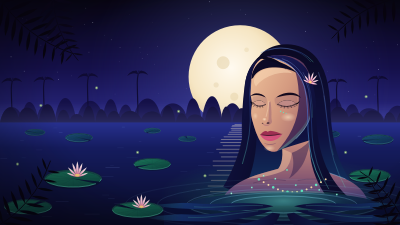
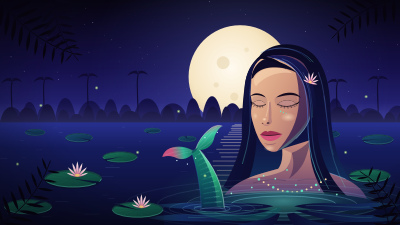
Iara: a cauda de sereia sai da água ao lado dela
O Pablo aprovou a qualidade do retrato e pediu para ver a cauda. Ela sobe
da água entre a Iara e o caminho da lua, no mesmo padrão: tronco em dois
planos com fio de luz, escamas em fileiras que acompanham a curva e a
nadadeira em dois lóbulos, do verde da mata ao urucum nas pontas. O corpo
segue por baixo da superfície até onde a cauda sobe.

Na versão animada a cauda balança (classe f, com a origem na água), há anéis
onde ela sai e gotas que caem da nadadeira. Uma vitória-régia mudou de
lugar para dar espaço.

Claude-Session: https://claude.ai/code/session_01ScgKNBRa6PNzmmLcYJgieX

Changed region(s): [[0.24, 0.56, 0.69, 0.9956]]

diff --git a/tema/papel-vivo/io.github.pabloherzberg.mataviva/contents/ui/Camadas.js b/tema/papel-vivo/io.github.pabloherzberg.mataviva/contents/ui/Camadas.js
@@ -1,5 +1,5 @@
 // Gerado por tema/gerar-papel-vivo.py a partir de arte/brasa-fundo.svg, arte/iara-fundo.svg e arte/papel-vivo/.
 // Não edite à mão.
 .pragma library
-var cenas = {"brasa":{"camadas":[{"tipo":"parada","img":"brasa/c01.png","x":-43.76,"y":-59.41,"w":1410.82,"h":828.14},{"tipo":"vaga","nome":"ceu"},{"tipo":"parada","img":"brasa/c02.png","x":-30.95,"y":-11.03,"w":1435.01,"h":789.72},{"tipo":"vaga","nome":"longe"},{"tipo":"parada","img":"brasa/c03.png","x":-32.37,"y":-53.0,"w":1488.37,"h":859.44},{"img":"brasa/c04-halo.png","x":777.27,"y":81.46,"w":495.18,"h":356.44,"tipo":"halo","opacidade":0.55,"duracao":4,"atraso":0},{"tipo":"vaga","nome":"perto"},{"img":"brasa/c05-f.png","x":876.87,"y":105.65,"w":304.5,"h":184.98,"tipo":"f","ox":0.17,"oy":0.92,"quadros":"fa","duracao":4.0,"atraso":-3.88},{"img":"brasa/c06-f.png","x":997.82,"y":80.04,"w":445.37,"h":212.73,"tipo":"f","ox":0.14,"oy":0.87,"quadros":"fb","duracao":2.6667,"atraso":-2.14},{"img":"brasa/c07-f.png","x":1116.63,"y":264.31,"w":320.87,"h":168.62,"tipo":"f","ox":0.04,"oy":0.57,"quadros":"fc","duracao":2.0,"atraso":-0.61},{"img":"brasa/c08-f.png","x":1068.97,"y":361.06,"w":379.92,"h":332.25,"tipo":"f","ox":0.09,"oy":0.37,"quadros":"fb","duracao":4.0,"atraso":-3.54},{"img":"brasa/c09-f.png","x":1020.59,"y":124.86,"w":64.74,"h":98.18,"tipo":"f","ox":0.09,"oy":0.95,"quadros":"fl","duracao":1.6,"atraso":-0.34},{"img":"brasa/c10-f.png","x":1174.97,"y":107.07,"w":79.68,"h":106.72,"tipo":"f","ox":0.05,"oy":0.94,"quadros":"fl","duracao":2.0,"atraso":-0.79},{"tipo":"parada","img":"brasa/c11.png","x":624.3,"y":492.68,"w":726.4,"h":364.98},{"img":"brasa/c12-f.png","x":1092.44,"y":414.42,"w":301.66,"h":176.44,"tipo":"f","ox":0.04,"oy":0.29,"quadros":"fa","duracao":4.0,"atraso":-3.42},{"img":"brasa/c13-f.png","x":1076.08,"y":438.61,"w":266.09,"h":224.82,"tipo":"f","ox":0.07,"oy":0.27,"quadros":"fc","duracao":2.6667,"atraso":-1.71},{"tipo":"parada","img":"brasa/c14.png","x":850.55,"y":233.0,"w":255.41,"h":369.25},{"img":"brasa/c15-breath.png","x":850.55,"y":311.26,"w":164.35,"h":278.89,"tipo":"breath","duracao":2.6667,"atraso":0},{"tipo":"parada","img":"brasa/c16.png","x":861.22,"y":408.02,"w":144.43,"h":29.88},{"img":"brasa/c17-lid.png","x":943.04,"y":417.27,"w":59.76,"h":19.92,"tipo":"lid","duracao":8,"atraso":0},{"img":"brasa/c18-lid.png","x":862.64,"y":413.0,"w":41.98,"h":19.92,"tipo":"lid","duracao":8,"atraso":0},{"tipo":"parada","img":"brasa/c19.png","x":851.97,"y":226.6,"w":303.79,"h":303.79},{"img":"brasa/c20-f.png","x":871.18,"y":114.9,"w":283.87,"h":194.94,"tipo":"f","ox":0.11,"oy":0.95,"quadros":"fc","duracao":4.0,"atraso":-0.4},{"img":"brasa/c21-f.png","x":933.08,"y":114.19,"w":315.89,"h":177.15,"tipo":"f","ox":0.07,"oy":0.98,"quadros":"fa","duracao":2.6667,"atraso":-2.64},{"img":"brasa/c22-f.png","x":997.82,"y":129.84,"w":372.8,"h":173.6,"tipo":"f","ox":0.06,"oy":0.97,"quadros":"fb","duracao":2.0,"atraso":-0.43},{"img":"brasa/c23-f.png","x":1059.01,"y":232.29,"w":344.35,"h":136.6,"tipo":"f","ox":0.03,"oy":0.86,"quadros":"fc","duracao":1.6,"atraso":-0.41},{"img":"brasa/c24-f.png","x":944.46,"y":148.34,"w":61.9,"h":89.64,"tipo":"f","ox":0.11,"oy":0.99,"quadros":"fl","duracao":1.3333,"atraso":-1.03},{"img":"brasa/c25-f.png","x":1096.0,"y":112.05,"w":59.76,"h":99.6,"tipo":"f","ox":0.08,"oy":0.95,"quadros":"fl","duracao":1.6,"atraso":-0.53},{"img":"brasa/c26-f.png","x":1234.74,"y":166.12,"w":68.3,"h":77.55,"tipo":"f","ox":0.04,"oy":0.94,"quadros":"fl","duracao":2.0,"atraso":-0.59},{"img":"brasa/c27-f.png","x":864.78,"y":155.45,"w":229.8,"h":175.73,"tipo":"f","ox":0.1,"oy":0.93,"quadros":"fa","duracao":1.6,"atraso":-0.12},{"img":"brasa/c28-f.png","x":914.58,"y":167.55,"w":288.14,"h":134.47,"tipo":"f","ox":0.07,"oy":0.98,"quadros":"fb","duracao":4.0,"atraso":-0.36},{"img":"brasa/c29-f.png","x":972.92,"y":191.74,"w":315.18,"h":109.56,"tipo":"f","ox":0.07,"oy":0.98,"quadros":"fc","duracao":2.6667,"atraso":-1.55},{"img":"brasa/c30-f.png","x":1028.41,"y":234.43,"w":284.58,"h":140.87,"tipo":"f","ox":0.08,"oy":0.75,"quadros":"fa","duracao":2.0,"atraso":-0.49},{"tipo":"parada","img":"brasa/c31.png","x":-45.18,"y":-33.08,"w":1463.47,"h":865.13},{"img":"brasa/c32-sp.png","x":901.77,"y":116.32,"w":6.4,"h":7.11,"tipo":"sp","dx":50.0,"dy":-110.0,"duracao":4.0,"atraso":-0.0},{"img":"brasa/c33-sp.png","x":1036.95,"y":67.23,"w":6.4,"h":5.69,"tipo":"sp","dx":70.0,"dy":-70.0,"duracao":2.6667,"atraso":-0.9},{"img":"brasa/c34-sp.png","x":1176.4,"y":126.28,"w":7.11,"h":7.11,"tipo":"sp","dx":90.0,"dy":-110.0,"duracao":4.0,"atraso":-2.2},{"img":"brasa/c35-sp.png","x":1286.67,"y":246.52,"w":6.4,"h":6.4,"tipo":"sp","dx":70.0,"dy":-150.0,"duracao":4.0,"atraso":-3.1},{"img":"brasa/c36-sp.png","x":1246.83,"y":466.36,"w":6.4,"h":7.11,"tipo":"sp","dx":80.0,"dy":-150.0,"duracao":4.0,"atraso":-0.4},{"img":"brasa/c37-sp.png","x":1117.34,"y":37.35,"w":5.69,"h":5.69,"tipo":"sp","dx":60.0,"dy":-40.0,"duracao":2.6667,"atraso":-1.6},{"img":"brasa/c38-sp.png","x":1327.22,"y":376.72,"w":5.69,"h":6.4,"tipo":"sp","dx":40.0,"dy":-130.0,"duracao":4.0,"atraso":-1.4},{"img":"brasa/c39-ff.png","x":130.55,"y":459.96,"w":14.94,"h":15.65,"tipo":"ff","duracao":8.0,"atraso":-1.1},{"img":"brasa/c40-ff.png","x":310.55,"y":582.33,"w":14.94,"h":14.94,"tipo":"ff","duracao":4.0,"atraso":-3.0},{"img":"brasa/c41-ff.png","x":497.66,"y":363.91,"w":14.94,"h":15.65,"tipo":"ff","duracao":8.0,"atraso":-5.2},{"img":"brasa/c42-ff.png","x":604.38,"y":511.89,"w":14.94,"h":15.65,"tipo":"ff","duracao":4.0,"atraso":-2.2},{"img":"brasa/c43-ff.png","x":734.58,"y":284.23,"w":14.94,"h":15.65,"tipo":"ff","duracao":8.0,"atraso":-6.4},{"img":"brasa/c44-ff.png","x":224.46,"y":309.84,"w":14.94,"h":15.65,"tipo":"ff","duracao":4.0,"atraso":-0.6}],"quadros":{"fa":[[0.0,0.0,1.0,1.0,null],[0.22,-1.6,1.04,1.02,null],[0.48,0.9,0.98,1.0,null],[0.74,-0.8,1.02,0.99,null],[1.0,0.0,1.0,1.0,null]],"fb":[[0.0,0.0,1.0,1.0,null],[0.3,1.4,0.97,1.01,null],[0.58,-1.7,1.05,1.0,null],[0.82,0.5,1.01,1.02,null],[1.0,0.0,1.0,1.0,null]],"fc":[[0.0,0.0,1.0,1.0,1.0],[0.18,-2.2,1.07,1.03,0.9],[0.4,1.2,0.95,1.0,1.0],[0.63,-1.4,1.05,0.98,0.85],[0.85,0.8,0.99,1.02,1.0],[1.0,0.0,1.0,1.0,1.0]],"fl":[[0.0,0.0,1.0,1.0,1.0],[0.2,-5.0,1.05,1.14,0.86],[0.45,3.0,0.97,0.88,1.0],[0.7,-3.0,1.03,1.09,0.8],[1.0,0.0,1.0,1.0,1.0]],"ff":[[0.0,0.0,1.0,1.0,0.08],[0.3,0.0,1.0,1.0,0.75],[0.55,0.0,1.0,1.0,0.25],[0.78,0.0,1.0,1.0,0.7],[1.0,0.0,1.0,1.0,0.08]],"breath":[[0.0,0.0,1.0,1.0,1.0],[0.17,0.0,1.0,1.0,0.8],[0.36,0.0,1.0,1.0,0.96],[0.55,0.0,1.0,1.0,0.74],[0.78,0.0,1.0,1.0,0.93],[1.0,0.0,1.0,1.0,1.0]],"halo":[[0.0,0.0,1.0,1.0,0.55],[0.23,0.0,1.0,1.0,0.3],[0.47,0.0,1.0,1.0,0.5],[0.71,0.0,1.0,1.0,0.25],[1.0,0.0,1.0,1.0,0.55]],"glow":[[0.0,0.0,1.0,1.0,0.28],[0.5,0.0,1.0,1.0,0.95],[1.0,0.0,1.0,1.0,0.28]],"blink":[[0.0,0.0,1.0,1.0,0.0],[0.605,0.0,1.0,1.0,0.0],[0.606,0.0,1.0,1.0,1.0],[0.619,0.0,1.0,1.0,1.0],[0.627,0.0,1.0,1.0,1.0],[0.65,0.0,1.0,1.0,1.0],[0.6509999999999999,0.0,1.0,1.0,0.0],[1.0,0.0,1.0,1.0,0.0]],"spark":[[0.0,0.0,1.0,1.0,0.0],[0.1,0.0,1.0,1.0,1.0],[0.7,0.0,1.0,1.0,0.8],[1.0,0.0,1.0,1.0,0.0]],"s0":[[0.0,0.0,1.0,1.0,0.0],[0.02,0.0,1.0,1.0,0.0],[0.06,0.0,1.0,1.0,1.0],[0.22,0.0,1.0,1.0,0.72],[0.88,0.0,1.0,1.0,0.72],[0.97,0.0,1.0,1.0,0.0],[1.0,0.0,1.0,1.0,0.0]],"s1":[[0.0,0.0,1.0,1.0,0.0],[0.17,0.0,1.0,1.0,0.0],[0.21,0.0,1.0,1.0,1.0],[0.37,0.0,1.0,1.0,0.72],[0.88,0.0,1.0,1.0,0.72],[0.97,0.0,1.0,1.0,0.0],[1.0,0.0,1.0,1.0,0.0]],"s2":[[0.0,0.0,1.0,1.0,0.0],[0.32,0.0,1.0,1.0,0.0],[0.36,0.0,1.0,1.0,1.0],[0.52,0.0,1.0,1.0,0.72],[0.88,0.0,1.0,1.0,0.72],[0.97,0.0,1.0,1.0,0.0],[1.0,0.0,1.0,1.0,0.0]],"s3":[[0.0,0.0,1.0,1.0,0.0],[0.47,0.0,1.0,1.0,0.0],[0.51,0.0,1.0,1.0,1.0],[0.67,0.0,1.0,1.0,0.72],[0.88,0.0,1.0,1.0,0.72],[0.97,0.0,1.0,1.0,0.0],[1.0,0.0,1.0,1.0,0.0]],"s4":[[0.0,0.0,1.0,1.0,0.0],[0.62,0.0,1.0,1.0,0.0],[0.66,0.0,1.0,1.0,1.0],[0.82,0.0,1.0,1.0,0.8],[0.88,0.0,1.0,1.0,0.8],[0.97,0.0,1.0,1.0,0.0],[1.0,0.0,1.0,1.0,0.0]]}},"iara":{"camadas":[{"tipo":"parada","img":"iara/c01.png","x":-1.07,"y":-1.07,"w":1368.13,"h":769.8},{"tipo":"vaga","nome":"ceu"},{"tipo":"parada","img":"iara/c02.png","x":-1.07,"y":161.14,"w":1427.19,"h":326.56},{"tipo":"vaga","nome":"longe"},{"tipo":"parada","img":"iara/c03.png","x":-1.07,"y":149.76,"w":1398.02,"h":618.97},{"img":"iara/c04-lid.png","x":945.88,"y":340.43,"w":69.01,"h":29.88,"tipo":"lid","duracao":8,"atraso":0},{"img":"iara/c05-lid.png","x":858.37,"y":341.86,"w":49.8,"h":27.04,"tipo":"lid","duracao":8,"atraso":0},{"tipo":"parada","img":"iara/c06.png","x":558.85,"y":161.14,"w":822.45,"h":641.74},{"img":"iara/c07-halo.png","x":785.81,"y":666.99,"w":364.27,"h":61.9,"tipo":"halo","opacidade":0.7,"duracao":4,"atraso":0},{"img":"iara/c08-halo.png","x":716.08,"y":655.61,"w":503.71,"h":83.95,"tipo":"halo","opacidade":0.5,"duracao":4,"atraso":0},{"img":"iara/c09-halo.png","x":636.4,"y":642.8,"w":663.79,"h":109.56,"tipo":"halo","opacidade":0.34,"duracao":4,"atraso":0},{"img":"iara/c10-halo.png","x":536.08,"y":627.15,"w":863.71,"h":141.58,"tipo":"halo","opacidade":0.2,"duracao":4,"atraso":0},{"img":"iara/c11-halo.png","x":425.81,"y":610.07,"w":1030.19,"h":175.73,"tipo":"halo","opacidade":0.12,"duracao":4,"atraso":0},{"img":"iara/c12-f.png","x":510.47,"y":691.18,"w":424.74,"h":29.17,"tipo":"f","ox":0.92,"oy":0.5,"quadros":"fa","duracao":5.0,"atraso":-1.2},{"img":"iara/c13-f.png","x":489.84,"y":716.08,"w":441.1,"h":40.55,"tipo":"f","ox":0.94,"oy":0.3,"quadros":"fb","duracao":6.4,"atraso":-3.1},{"img":"iara/c14-f.png","x":1002.8,"y":691.18,"w":377.07,"h":29.17,"tipo":"f","ox":0.06,"oy":0.5,"quadros":"fb","duracao":5.6,"atraso":-2.0},{"img":"iara/c15-f.png","x":1007.07,"y":716.08,"w":382.76,"h":42.69,"tipo":"f","ox":0.05,"oy":0.3,"quadros":"fa","duracao":7.0,"atraso":-4.4},{"img":"iara/c16-f.png","x":659.88,"y":724.62,"w":297.39,"h":71.86,"tipo":"f","ox":0.96,"oy":0.06,"quadros":"fc","duracao":6.0,"atraso":-0.7},{"img":"iara/c17-f.png","x":978.61,"y":724.62,"w":301.66,"h":71.86,"tipo":"f","ox":0.04,"oy":0.06,"quadros":"fc","duracao":6.8,"atraso":-2.6},{"tipo":"parada","img":"iara/c18.png","x":12.45,"y":538.22,"w":1323.31,"h":209.88},{"img":"iara/c19-sp.png","x":854.11,"y":634.26,"w":11.38,"h":11.38,"tipo":"sp","dx":-20.0,"dy":-120.0,"duracao":5.0,"atraso":0.0},{"img":"iara/c20-sp.png","x":934.5,"y":604.38,"w":11.38,"h":11.38,"tipo":"sp","dx":10.0,"dy":-150.0,"duracao":6.0,"atraso":-1.4},{"img":"iara/c21-sp.png","x":1004.22,"y":625.73,"w":11.38,"h":11.38,"tipo":"sp","dx":24.0,"dy":-130.0,"duracao":5.0,"atraso":-2.6},{"img":"iara/c22-sp.png","x":1084.62,"y":642.09,"w":11.38,"h":11.38,"tipo":"sp","dx":36.0,"dy":-110.0,"duracao":7.0,"atraso":-3.4},{"img":"iara/c23-sp.png","x":784.38,"y":654.19,"w":11.38,"h":11.38,"tipo":"sp","dx":-34.0,"dy":-100.0,"duracao":6.0,"atraso":-4.1},{"img":"iara/c24-sp.png","x":974.34,"y":573.79,"w":11.38,"h":11.38,"tipo":"sp","dx":4.0,"dy":-160.0,"duracao":8.0,"atraso":-5.2},{"img":"iara/c25-sp.png","x":1144.38,"y":657.74,"w":11.38,"h":11.38,"tipo":"sp","dx":46.0,"dy":-90.0,"duracao":6.0,"atraso":-0.8},{"img":"iara/c26-sp.png","x":894.66,"y":593.71,"w":11.38,"h":11.38,"tipo":"sp","dx":-10.0,"dy":-140.0,"duracao":7.0,"atraso":-2.0},{"img":"iara/c27-ff.png","x":131.97,"y":351.82,"w":15.65,"h":15.65,"tipo":"ff","duracao":8.0,"atraso":-1.1},{"img":"iara/c28-ff.png","x":322.65,"y":292.05,"w":14.94,"h":15.65,"tipo":"ff","duracao":4.0,"atraso":-3.0},{"img":"iara/c29-ff.png","x":462.09,"y":511.89,"w":15.65,"h":15.65,"tipo":"ff","duracao":8.0,"atraso":-5.2},{"img":"iara/c30-ff.png","x":602.25,"y":372.45,"w":15.65,"h":14.94,"tipo":"ff","duracao":4.0,"atraso":-2.2},{"img":"iara/c31-ff.png","x":52.29,"y":551.74,"w":15.65,"h":15.65,"tipo":"ff","duracao":8.0,"atraso":-6.4},{"img":"iara/c32-ff.png","x":1242.56,"y":321.93,"w":14.94,"h":15.65,"tipo":"ff","duracao":4.0,"atraso":-0.6},{"img":"iara/c33-ff.png","x":1172.13,"y":511.89,"w":15.65,"h":15.65,"tipo":"ff","duracao":8.0,"atraso":-4.0},{"img":"iara/c34-ff.png","x":692.6,"y":592.29,"w":14.94,"h":14.94,"tipo":"ff","duracao":8.0,"atraso":-2.9},{"tipo":"parada","img":"iara/c35.png","x":-22.41,"y":-43.76,"w":1428.61,"h":845.92}],"quadros":{"fa":[[0.0,0.0,1.0,1.0,null],[0.22,-1.6,1.04,1.02,null],[0.48,0.9,0.98,1.0,null],[0.74,-0.8,1.02,0.99,null],[1.0,0.0,1.0,1.0,null]],"fb":[[0.0,0.0,1.0,1.0,null],[0.3,1.4,0.97,1.01,null],[0.58,-1.7,1.05,1.0,null],[0.82,0.5,1.01,1.02,null],[1.0,0.0,1.0,1.0,null]],"fc":[[0.0,0.0,1.0,1.0,1.0],[0.18,-2.2,1.07,1.03,0.9],[0.4,1.2,0.95,1.0,1.0],[0.63,-1.4,1.05,0.98,0.85],[0.85,0.8,0.99,1.02,1.0],[1.0,0.0,1.0,1.0,1.0]],"ff":[[0.0,0.0,1.0,1.0,0.08],[0.3,0.0,1.0,1.0,0.75],[0.55,0.0,1.0,1.0,0.25],[0.78,0.0,1.0,1.0,0.7],[1.0,0.0,1.0,1.0,0.08]],"breath":[[0.0,0.0,1.0,1.0,1.0],[0.17,0.0,1.0,1.0,0.8],[0.36,0.0,1.0,1.0,0.96],[0.55,0.0,1.0,1.0,0.74],[0.78,0.0,1.0,1.0,0.93],[1.0,0.0,1.0,1.0,1.0]],"halo":[[0.0,0.0,1.0,1.0,0.55],[0.23,0.0,1.0,1.0,0.3],[0.47,0.0,1.0,1.0,0.5],[0.71,0.0,1.0,1.0,0.25],[1.0,0.0,1.0,1.0,0.55]],"blink":[[0.0,0.0,1.0,1.0,0.0],[0.605,0.0,1.0,1.0,0.0],[0.606,0.0,1.0,1.0,1.0],[0.619,0.0,1.0,1.0,1.0],[0.627,0.0,1.0,1.0,1.0],[0.65,0.0,1.0,1.0,1.0],[0.6509999999999999,0.0,1.0,1.0,0.0],[1.0,0.0,1.0,1.0,0.0]],"spark":[[0.0,0.0,1.0,1.0,0.0],[0.1,0.0,1.0,1.0,1.0],[0.7,0.0,1.0,1.0,0.8],[1.0,0.0,1.0,1.0,0.0]]}}}
+var cenas = {"brasa":{"camadas":[{"tipo":"parada","img":"brasa/c01.png","x":-43.76,"y":-59.41,"w":1410.82,"h":828.14},{"tipo":"vaga","nome":"ceu"},{"tipo":"parada","img":"brasa/c02.png","x":-30.95,"y":-11.03,"w":1435.01,"h":789.72},{"tipo":"vaga","nome":"longe"},{"tipo":"parada","img":"brasa/c03.png","x":-32.37,"y":-53.0,"w":1488.37,"h":859.44},{"img":"brasa/c04-halo.png","x":777.27,"y":81.46,"w":495.18,"h":356.44,"tipo":"halo","opacidade":0.55,"duracao":4,"atraso":0},{"tipo":"vaga","nome":"perto"},{"img":"brasa/c05-f.png","x":876.87,"y":105.65,"w":304.5,"h":184.98,"tipo":"f","ox":0.17,"oy":0.92,"quadros":"fa","duracao":4.0,"atraso":-3.88},{"img":"brasa/c06-f.png","x":997.82,"y":80.04,"w":445.37,"h":212.73,"tipo":"f","ox":0.14,"oy":0.87,"quadros":"fb","duracao":2.6667,"atraso":-2.14},{"img":"brasa/c07-f.png","x":1116.63,"y":264.31,"w":320.87,"h":168.62,"tipo":"f","ox":0.04,"oy":0.57,"quadros":"fc","duracao":2.0,"atraso":-0.61},{"img":"brasa/c08-f.png","x":1068.97,"y":361.06,"w":379.92,"h":332.25,"tipo":"f","ox":0.09,"oy":0.37,"quadros":"fb","duracao":4.0,"atraso":-3.54},{"img":"brasa/c09-f.png","x":1020.59,"y":124.86,"w":64.74,"h":98.18,"tipo":"f","ox":0.09,"oy":0.95,"quadros":"fl","duracao":1.6,"atraso":-0.34},{"img":"brasa/c10-f.png","x":1174.97,"y":107.07,"w":79.68,"h":106.72,"tipo":"f","ox":0.05,"oy":0.94,"quadros":"fl","duracao":2.0,"atraso":-0.79},{"tipo":"parada","img":"brasa/c11.png","x":624.3,"y":492.68,"w":726.4,"h":364.98},{"img":"brasa/c12-f.png","x":1092.44,"y":414.42,"w":301.66,"h":176.44,"tipo":"f","ox":0.04,"oy":0.29,"quadros":"fa","duracao":4.0,"atraso":-3.42},{"img":"brasa/c13-f.png","x":1076.08,"y":438.61,"w":266.09,"h":224.82,"tipo":"f","ox":0.07,"oy":0.27,"quadros":"fc","duracao":2.6667,"atraso":-1.71},{"tipo":"parada","img":"brasa/c14.png","x":850.55,"y":233.0,"w":255.41,"h":369.25},{"img":"brasa/c15-breath.png","x":850.55,"y":311.26,"w":164.35,"h":278.89,"tipo":"breath","duracao":2.6667,"atraso":0},{"tipo":"parada","img":"brasa/c16.png","x":861.22,"y":408.02,"w":144.43,"h":29.88},{"img":"brasa/c17-lid.png","x":943.04,"y":417.27,"w":59.76,"h":19.92,"tipo":"lid","duracao":8,"atraso":0},{"img":"brasa/c18-lid.png","x":862.64,"y":413.0,"w":41.98,"h":19.92,"tipo":"lid","duracao":8,"atraso":0},{"tipo":"parada","img":"brasa/c19.png","x":851.97,"y":226.6,"w":303.79,"h":303.79},{"img":"brasa/c20-f.png","x":871.18,"y":114.9,"w":283.87,"h":194.94,"tipo":"f","ox":0.11,"oy":0.95,"quadros":"fc","duracao":4.0,"atraso":-0.4},{"img":"brasa/c21-f.png","x":933.08,"y":114.19,"w":315.89,"h":177.15,"tipo":"f","ox":0.07,"oy":0.98,"quadros":"fa","duracao":2.6667,"atraso":-2.64},{"img":"brasa/c22-f.png","x":997.82,"y":129.84,"w":372.8,"h":173.6,"tipo":"f","ox":0.06,"oy":0.97,"quadros":"fb","duracao":2.0,"atraso":-0.43},{"img":"brasa/c23-f.png","x":1059.01,"y":232.29,"w":344.35,"h":136.6,"tipo":"f","ox":0.03,"oy":0.86,"quadros":"fc","duracao":1.6,"atraso":-0.41},{"img":"brasa/c24-f.png","x":944.46,"y":148.34,"w":61.9,"h":89.64,"tipo":"f","ox":0.11,"oy":0.99,"quadros":"fl","duracao":1.3333,"atraso":-1.03},{"img":"brasa/c25-f.png","x":1096.0,"y":112.05,"w":59.76,"h":99.6,"tipo":"f","ox":0.08,"oy":0.95,"quadros":"fl","duracao":1.6,"atraso":-0.53},{"img":"brasa/c26-f.png","x":1234.74,"y":166.12,"w":68.3,"h":77.55,"tipo":"f","ox":0.04,"oy":0.94,"quadros":"fl","duracao":2.0,"atraso":-0.59},{"img":"brasa/c27-f.png","x":864.78,"y":155.45,"w":229.8,"h":175.73,"tipo":"f","ox":0.1,"oy":0.93,"quadros":"fa","duracao":1.6,"atraso":-0.12},{"img":"brasa/c28-f.png","x":914.58,"y":167.55,"w":288.14,"h":134.47,"tipo":"f","ox":0.07,"oy":0.98,"quadros":"fb","duracao":4.0,"atraso":-0.36},{"img":"brasa/c29-f.png","x":972.92,"y":191.74,"w":315.18,"h":109.56,"tipo":"f","ox":0.07,"oy":0.98,"quadros":"fc","duracao":2.6667,"atraso":-1.55},{"img":"brasa/c30-f.png","x":1028.41,"y":234.43,"w":284.58,"h":140.87,"tipo":"f","ox":0.08,"oy":0.75,"quadros":"fa","duracao":2.0,"atraso":-0.49},{"tipo":"parada","img":"brasa/c31.png","x":-45.18,"y":-33.08,"w":1463.47,"h":865.13},{"img":"brasa/c32-sp.png","x":901.77,"y":116.32,"w":6.4,"h":7.11,"tipo":"sp","dx":50.0,"dy":-110.0,"duracao":4.0,"atraso":-0.0},{"img":"brasa/c33-sp.png","x":1036.95,"y":67.23,"w":6.4,"h":5.69,"tipo":"sp","dx":70.0,"dy":-70.0,"duracao":2.6667,"atraso":-0.9},{"img":"brasa/c34-sp.png","x":1176.4,"y":126.28,"w":7.11,"h":7.11,"tipo":"sp","dx":90.0,"dy":-110.0,"duracao":4.0,"atraso":-2.2},{"img":"brasa/c35-sp.png","x":1286.67,"y":246.52,"w":6.4,"h":6.4,"tipo":"sp","dx":70.0,"dy":-150.0,"duracao":4.0,"atraso":-3.1},{"img":"brasa/c36-sp.png","x":1246.83,"y":466.36,"w":6.4,"h":7.11,"tipo":"sp","dx":80.0,"dy":-150.0,"duracao":4.0,"atraso":-0.4},{"img":"brasa/c37-sp.png","x":1117.34,"y":37.35,"w":5.69,"h":5.69,"tipo":"sp","dx":60.0,"dy":-40.0,"duracao":2.6667,"atraso":-1.6},{"img":"brasa/c38-sp.png","x":1327.22,"y":376.72,"w":5.69,"h":6.4,"tipo":"sp","dx":40.0,"dy":-130.0,"duracao":4.0,"atraso":-1.4},{"img":"brasa/c39-ff.png","x":130.55,"y":459.96,"w":14.94,"h":15.65,"tipo":"ff","duracao":8.0,"atraso":-1.1},{"img":"brasa/c40-ff.png","x":310.55,"y":582.33,"w":14.94,"h":14.94,"tipo":"ff","duracao":4.0,"atraso":-3.0},{"img":"brasa/c41-ff.png","x":497.66,"y":363.91,"w":14.94,"h":15.65,"tipo":"ff","duracao":8.0,"atraso":-5.2},{"img":"brasa/c42-ff.png","x":604.38,"y":511.89,"w":14.94,"h":15.65,"tipo":"ff","duracao":4.0,"atraso":-2.2},{"img":"brasa/c43-ff.png","x":734.58,"y":284.23,"w":14.94,"h":15.65,"tipo":"ff","duracao":8.0,"atraso":-6.4},{"img":"brasa/c44-ff.png","x":224.46,"y":309.84,"w":14.94,"h":15.65,"tipo":"ff","duracao":4.0,"atraso":-0.6}],"quadros":{"fa":[[0.0,0.0,1.0,1.0,null],[0.22,-1.6,1.04,1.02,null],[0.48,0.9,0.98,1.0,null],[0.74,-0.8,1.02,0.99,null],[1.0,0.0,1.0,1.0,null]],"fb":[[0.0,0.0,1.0,1.0,null],[0.3,1.4,0.97,1.01,null],[0.58,-1.7,1.05,1.0,null],[0.82,0.5,1.01,1.02,null],[1.0,0.0,1.0,1.0,null]],"fc":[[0.0,0.0,1.0,1.0,1.0],[0.18,-2.2,1.07,1.03,0.9],[0.4,1.2,0.95,1.0,1.0],[0.63,-1.4,1.05,0.98,0.85],[0.85,0.8,0.99,1.02,1.0],[1.0,0.0,1.0,1.0,1.0]],"fl":[[0.0,0.0,1.0,1.0,1.0],[0.2,-5.0,1.05,1.14,0.86],[0.45,3.0,0.97,0.88,1.0],[0.7,-3.0,1.03,1.09,0.8],[1.0,0.0,1.0,1.0,1.0]],"ff":[[0.0,0.0,1.0,1.0,0.08],[0.3,0.0,1.0,1.0,0.75],[0.55,0.0,1.0,1.0,0.25],[0.78,0.0,1.0,1.0,0.7],[1.0,0.0,1.0,1.0,0.08]],"breath":[[0.0,0.0,1.0,1.0,1.0],[0.17,0.0,1.0,1.0,0.8],[0.36,0.0,1.0,1.0,0.96],[0.55,0.0,1.0,1.0,0.74],[0.78,0.0,1.0,1.0,0.93],[1.0,0.0,1.0,1.0,1.0]],"halo":[[0.0,0.0,1.0,1.0,0.55],[0.23,0.0,1.0,1.0,0.3],[0.47,0.0,1.0,1.0,0.5],[0.71,0.0,1.0,1.0,0.25],[1.0,0.0,1.0,1.0,0.55]],"glow":[[0.0,0.0,1.0,1.0,0.28],[0.5,0.0,1.0,1.0,0.95],[1.0,0.0,1.0,1.0,0.28]],"blink":[[0.0,0.0,1.0,1.0,0.0],[0.605,0.0,1.0,1.0,0.0],[0.606,0.0,1.0,1.0,1.0],[0.619,0.0,1.0,1.0,1.0],[0.627,0.0,1.0,1.0,1.0],[0.65,0.0,1.0,1.0,1.0],[0.6509999999999999,0.0,1.0,1.0,0.0],[1.0,0.0,1.0,1.0,0.0]],"spark":[[0.0,0.0,1.0,1.0,0.0],[0.1,0.0,1.0,1.0,1.0],[0.7,0.0,1.0,1.0,0.8],[1.0,0.0,1.0,1.0,0.0]],"s0":[[0.0,0.0,1.0,1.0,0.0],[0.02,0.0,1.0,1.0,0.0],[0.06,0.0,1.0,1.0,1.0],[0.22,0.0,1.0,1.0,0.72],[0.88,0.0,1.0,1.0,0.72],[0.97,0.0,1.0,1.0,0.0],[1.0,0.0,1.0,1.0,0.0]],"s1":[[0.0,0.0,1.0,1.0,0.0],[0.17,0.0,1.0,1.0,0.0],[0.21,0.0,1.0,1.0,1.0],[0.37,0.0,1.0,1.0,0.72],[0.88,0.0,1.0,1.0,0.72],[0.97,0.0,1.0,1.0,0.0],[1.0,0.0,1.0,1.0,0.0]],"s2":[[0.0,0.0,1.0,1.0,0.0],[0.32,0.0,1.0,1.0,0.0],[0.36,0.0,1.0,1.0,1.0],[0.52,0.0,1.0,1.0,0.72],[0.88,0.0,1.0,1.0,0.72],[0.97,0.0,1.0,1.0,0.0],[1.0,0.0,1.0,1.0,0.0]],"s3":[[0.0,0.0,1.0,1.0,0.0],[0.47,0.0,1.0,1.0,0.0],[0.51,0.0,1.0,1.0,1.0],[0.67,0.0,1.0,1.0,0.72],[0.88,0.0,1.0,1.0,0.72],[0.97,0.0,1.0,1.0,0.0],[1.0,0.0,1.0,1.0,0.0]],"s4":[[0.0,0.0,1.0,1.0,0.0],[0.62,0.0,1.0,1.0,0.0],[0.66,0.0,1.0,1.0,1.0],[0.82,0.0,1.0,1.0,0.8],[0.88,0.0,1.0,1.0,0.8],[0.97,0.0,1.0,1.0,0.0],[1.0,0.0,1.0,1.0,0.0]]}},"iara":{"camadas":[{"tipo":"parada","img":"iara/c01.png","x":-1.07,"y":-1.07,"w":1368.13,"h":769.8},{"tipo":"vaga","nome":"ceu"},{"tipo":"parada","img":"iara/c02.png","x":-1.07,"y":161.14,"w":1427.19,"h":326.56},{"tipo":"vaga","nome":"longe"},{"tipo":"parada","img":"iara/c03.png","x":-1.07,"y":149.76,"w":1398.02,"h":618.97},{"img":"iara/c04-lid.png","x":945.88,"y":340.43,"w":69.01,"h":29.88,"tipo":"lid","duracao":8,"atraso":0},{"img":"iara/c05-lid.png","x":858.37,"y":341.86,"w":49.8,"h":27.04,"tipo":"lid","duracao":8,"atraso":0},{"tipo":"parada","img":"iara/c06.png","x":558.85,"y":161.14,"w":822.45,"h":641.74},{"img":"iara/c07-halo.png","x":785.81,"y":666.99,"w":364.27,"h":61.9,"tipo":"halo","opacidade":0.7,"duracao":4,"atraso":0},{"img":"iara/c08-halo.png","x":716.08,"y":655.61,"w":503.71,"h":83.95,"tipo":"halo","opacidade":0.5,"duracao":4,"atraso":0},{"img":"iara/c09-halo.png","x":636.4,"y":642.8,"w":663.79,"h":109.56,"tipo":"halo","opacidade":0.34,"duracao":4,"atraso":0},{"img":"iara/c10-halo.png","x":536.08,"y":627.15,"w":863.71,"h":141.58,"tipo":"halo","opacidade":0.2,"duracao":4,"atraso":0},{"img":"iara/c11-halo.png","x":425.81,"y":610.07,"w":1030.19,"h":175.73,"tipo":"halo","opacidade":0.12,"duracao":4,"atraso":0},{"img":"iara/c12-f.png","x":510.47,"y":691.18,"w":424.74,"h":29.17,"tipo":"f","ox":0.92,"oy":0.5,"quadros":"fa","duracao":5.0,"atraso":-1.2},{"img":"iara/c13-f.png","x":489.84,"y":716.08,"w":441.1,"h":40.55,"tipo":"f","ox":0.94,"oy":0.3,"quadros":"fb","duracao":6.4,"atraso":-3.1},{"img":"iara/c14-f.png","x":1002.8,"y":691.18,"w":377.07,"h":29.17,"tipo":"f","ox":0.06,"oy":0.5,"quadros":"fb","duracao":5.6,"atraso":-2.0},{"img":"iara/c15-f.png","x":1007.07,"y":716.08,"w":382.76,"h":42.69,"tipo":"f","ox":0.05,"oy":0.3,"quadros":"fa","duracao":7.0,"atraso":-4.4},{"img":"iara/c16-f.png","x":659.88,"y":724.62,"w":297.39,"h":71.86,"tipo":"f","ox":0.96,"oy":0.06,"quadros":"fc","duracao":6.0,"atraso":-0.7},{"img":"iara/c17-f.png","x":978.61,"y":724.62,"w":301.66,"h":71.86,"tipo":"f","ox":0.04,"oy":0.06,"quadros":"fc","duracao":6.8,"atraso":-2.6},{"tipo":"parada","img":"iara/c18.png","x":642.09,"y":699.01,"w":629.64,"h":56.92},{"img":"iara/c19-halo.png","x":659.88,"y":699.01,"w":128.06,"h":25.61,"tipo":"halo","opacidade":0.6,"duracao":4,"atraso":0},{"img":"iara/c20-halo.png","x":622.17,"y":692.6,"w":203.48,"h":37.71,"tipo":"halo","opacidade":0.4,"duracao":4,"atraso":0},{"img":"iara/c21-halo.png","x":575.92,"y":684.78,"w":295.97,"h":54.07,"tipo":"halo","opacidade":0.24,"duracao":4,"atraso":0},{"img":"iara/c22-f.png","x":553.16,"y":425.81,"w":214.86,"h":288.14,"tipo":"f","ox":0.62,"oy":1.0,"quadros":"fa","duracao":6.4,"atraso":-1.8},{"tipo":"parada","img":"iara/c23.png","x":679.09,"y":704.7,"w":93.91,"h":17.79},{"img":"iara/c24-sp.png","x":600.83,"y":544.62,"w":6.4,"h":6.4,"tipo":"sp","dx":0.0,"dy":120.0,"duracao":3.0,"atraso":0.0},{"img":"iara/c25-sp.png","x":636.4,"y":556.72,"w":7.11,"h":6.4,"tipo":"sp","dx":0.0,"dy":110.0,"duracao":4.0,"atraso":-1.3},{"img":"iara/c26-sp.png","x":696.87,"y":466.36,"w":6.4,"h":6.4,"tipo":"sp","dx":0.0,"dy":190.0,"duracao":4.0,"atraso":-2.2},{"img":"iara/c27-sp.png","x":738.85,"y":448.57,"w":6.4,"h":6.4,"tipo":"sp","dx":0.0,"dy":210.0,"duracao":3.0,"atraso":-0.6},{"img":"iara/c28-sp.png","x":664.86,"y":536.79,"w":6.4,"h":6.4,"tipo":"sp","dx":0.0,"dy":130.0,"duracao":5.0,"atraso":-3.1},{"tipo":"parada","img":"iara/c29.png","x":12.45,"y":515.45,"w":1323.31,"h":232.65},{"img":"iara/c30-sp.png","x":854.11,"y":634.26,"w":11.38,"h":11.38,"tipo":"sp","dx":-20.0,"dy":-120.0,"duracao":5.0,"atraso":0.0},{"img":"iara/c31-sp.png","x":934.5,"y":604.38,"w":11.38,"h":11.38,"tipo":"sp","dx":10.0,"dy":-150.0,"duracao":6.0,"atraso":-1.4},{"img":"iara/c32-sp.png","x":1004.22,"y":625.73,"w":11.38,"h":11.38,"tipo":"sp","dx":24.0,"dy":-130.0,"duracao":5.0,"atraso":-2.6},{"img":"iara/c33-sp.png","x":1084.62,"y":642.09,"w":11.38,"h":11.38,"tipo":"sp","dx":36.0,"dy":-110.0,"duracao":7.0,"atraso":-3.4},{"img":"iara/c34-sp.png","x":784.38,"y":654.19,"w":11.38,"h":11.38,"tipo":"sp","dx":-34.0,"dy":-100.0,"duracao":6.0,"atraso":-4.1},{"img":"iara/c35-sp.png","x":974.34,"y":573.79,"w":11.38,"h":11.38,"tipo":"sp","dx":4.0,"dy":-160.0,"duracao":8.0,"atraso":-5.2},{"img":"iara/c36-sp.png","x":1144.38,"y":657.74,"w":11.38,"h":11.38,"tipo":"sp","dx":46.0,"dy":-90.0,"duracao":6.0,"atraso":-0.8},{"img":"iara/c37-sp.png","x":894.66,"y":593.71,"w":11.38,"h":11.38,"tipo":"sp","dx":-10.0,"dy":-140.0,"duracao":7.0,"atraso":-2.0},{"img":"iara/c38-ff.png","x":131.97,"y":351.82,"w":15.65,"h":15.65,"tipo":"ff","duracao":8.0,"atraso":-1.1},{"img":"iara/c39-ff.png","x":322.65,"y":292.05,"w":14.94,"h":15.65,"tipo":"ff","duracao":4.0,"atraso":-3.0},{"img":"iara/c40-ff.png","x":462.09,"y":511.89,"w":15.65,"h":15.65,"tipo":"ff","duracao":8.0,"atraso":-5.2},{"img":"iara/c41-ff.png","x":602.25,"y":372.45,"w":15.65,"h":14.94,"tipo":"ff","duracao":4.0,"atraso":-2.2},{"img":"iara/c42-ff.png","x":52.29,"y":551.74,"w":15.65,"h":15.65,"tipo":"ff","duracao":8.0,"atraso":-6.4},{"img":"iara/c43-ff.png","x":1242.56,"y":321.93,"w":14.94,"h":15.65,"tipo":"ff","duracao":4.0,"atraso":-0.6},{"img":"iara/c44-ff.png","x":1172.13,"y":511.89,"w":15.65,"h":15.65,"tipo":"ff","duracao":8.0,"atraso":-4.0},{"img":"iara/c45-ff.png","x":692.6,"y":592.29,"w":14.94,"h":14.94,"tipo":"ff","duracao":8.0,"atraso":-2.9},{"tipo":"parada","img":"iara/c46.png","x":-22.41,"y":-43.76,"w":1428.61,"h":845.92}],"quadros":{"fa":[[0.0,0.0,1.0,1.0,null],[0.22,-1.6,1.04,1.02,null],[0.48,0.9,0.98,1.0,null],[0.74,-0.8,1.02,0.99,null],[1.0,0.0,1.0,1.0,null]],"fb":[[0.0,0.0,1.0,1.0,null],[0.3,1.4,0.97,1.01,null],[0.58,-1.7,1.05,1.0,null],[0.82,0.5,1.01,1.02,null],[1.0,0.0,1.0,1.0,null]],"fc":[[0.0,0.0,1.0,1.0,1.0],[0.18,-2.2,1.07,1.03,0.9],[0.4,1.2,0.95,1.0,1.0],[0.63,-1.4,1.05,0.98,0.85],[0.85,0.8,0.99,1.02,1.0],[1.0,0.0,1.0,1.0,1.0]],"ff":[[0.0,0.0,1.0,1.0,0.08],[0.3,0.0,1.0,1.0,0.75],[0.55,0.0,1.0,1.0,0.25],[0.78,0.0,1.0,1.0,0.7],[1.0,0.0,1.0,1.0,0.08]],"breath":[[0.0,0.0,1.0,1.0,1.0],[0.17,0.0,1.0,1.0,0.8],[0.36,0.0,1.0,1.0,0.96],[0.55,0.0,1.0,1.0,0.74],[0.78,0.0,1.0,1.0,0.93],[1.0,0.0,1.0,1.0,1.0]],"halo":[[0.0,0.0,1.0,1.0,0.55],[0.23,0.0,1.0,1.0,0.3],[0.47,0.0,1.0,1.0,0.5],[0.71,0.0,1.0,1.0,0.25],[1.0,0.0,1.0,1.0,0.55]],"blink":[[0.0,0.0,1.0,1.0,0.0],[0.605,0.0,1.0,1.0,0.0],[0.606,0.0,1.0,1.0,1.0],[0.619,0.0,1.0,1.0,1.0],[0.627,0.0,1.0,1.0,1.0],[0.65,0.0,1.0,1.0,1.0],[0.6509999999999999,0.0,1.0,1.0,0.0],[1.0,0.0,1.0,1.0,0.0]],"spark":[[0.0,0.0,1.0,1.0,0.0],[0.1,0.0,1.0,1.0,1.0],[0.7,0.0,1.0,1.0,0.8],[1.0,0.0,1.0,1.0,0.0]]}}}
 var seres = {"boitata":{"img":"ser-boitata.png","w":660,"h":220},"boto":{"img":"ser-boto.png","w":120,"h":66},"fogo-azul":{"img":"ser-fogo-azul.png","w":36,"h":36},"iara":{"img":"ser-iara.png","w":96,"h":124},"lagoa":{"img":"ser-lagoa.png","w":400,"h":120},"lua":{"img":"ser-lua.png","w":260,"h":260},"mapinguari":{"img":"ser-mapinguari.png","w":320,"h":470},"nevoa":{"img":"ser-nevoa.png","w":1100,"h":340},"olho":{"img":"ser-olho.png","w":96,"h":60},"olhos-caipora":{"img":"ser-olhos-caipora.png","w":84,"h":40},"onda":{"img":"ser-onda.png","w":200,"h":56},"redemoinho":{"img":"ser-redemoinho.png","w":200,"h":260},"saci":{"img":"ser-saci.png","w":120,"h":170}}
